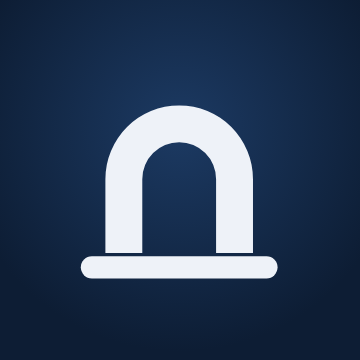
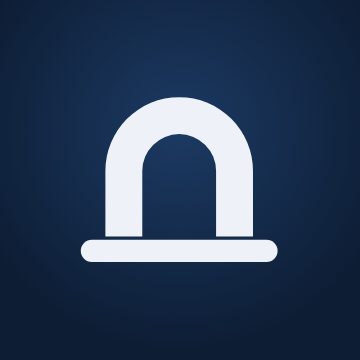
Vertically centre the Arch mark so it aligns with the wordmark
The arch sat in the lower half of its viewBox, so despite the lockup
being flex-centred (box centres matched exactly) the mark read low
against the uppercase wordmark. Shift the arch + plinth up to sit on the
box's optical centre. Apply the same geometry to the favicon, social
card, and app icon so every arch is identical.

Claude-Session: https://claude.ai/code/session_018bHNTKfLa9FMkf6WHm9D12

diff --git a/src/brand/Mark.tsx b/src/brand/Mark.tsx
@@ -27,13 +27,15 @@ export function Mark({
       fill="none"
     >
       <title>{title}</title>
-      {/* the arch — two legs, a rounded span, hollow centre */}
+      {/* the arch — two legs, a rounded span, hollow centre. The whole mark
+         (arch + plinth) is vertically centred in the 32×32 box so it sits on
+         the wordmark's optical centre, not low. */}
       <path
-        d="M7 25 L7 16 A9 9 0 0 1 25 16 L25 25 L20.5 25 L20.5 16 A4.5 4.5 0 0 0 11.5 16 L11.5 25 Z"
+        d="M7 23 L7 15 A9 9 0 0 1 25 15 L25 23 L20.5 23 L20.5 15 A4.5 4.5 0 0 0 11.5 15 L11.5 23 Z"
         fill={fill}
       />
       {/* the plinth it stands on */}
-      <rect x="4" y="25.4" width="24" height="2.7" rx="1.35" fill={fill} />
+      <rect x="4" y="23.4" width="24" height="2.7" rx="1.35" fill={fill} />
     </svg>
   );
 }
